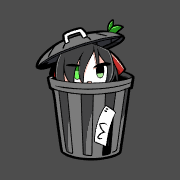
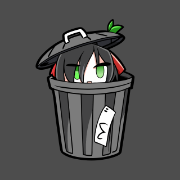
Rebranding second attempt

diff --git a/templates/index.html b/templates/index.html
@@ -12,7 +12,7 @@
     <meta property="og:title" content="Bin-chan | A Forgetful Text Bin">
     <meta property="og:description"
         content="A bin share like Pastebin, but it forgets! Share text with custom expiry options">
-    <meta property="og:image" content="{{ url_for('static', filename='images/logo.png') }}">
+    <meta property="og:image" content="{{ url_for('static', filename='images/og_logo.png') }}">
     <meta property="og:url" content="{{ url_for('index', _external=True) }}">
     <meta property="og:type" content="website">
     <!-- Twitter Card meta tags -->
@@ -20,7 +20,7 @@
     <meta name="twitter:title" content="Bin-chan | A Forgetful Text Bin">
     <meta name="twitter:description"
         content="A bin share like Pastebin, but it forgets! Share text with custom expiry options">
-    <meta name="twitter:image" content="{{ url_for('static', filename='images/logo.png') }}">
+    <meta name="twitter:image" content="{{ url_for('static', filename='images/og_logo.png') }}">
     <!-- Google Verification -->
     <meta name="google-site-verification" content="e6uZRl4dzIQV8N8ylkx9dU7eO215TgM21Ckp5rwMeVs">
     <!-- Theme Color -->
@@ -50,7 +50,7 @@
     <body>
         <main class="content">
             <div class="container">
-                <img src="{{ url_for('static', filename='images/logo.svg') }}" alt="Logo" class="logo">
+                <img src="{{ url_for('static', filename='images/logo.png') }}" alt="Logo" class="logo">
                 <form id="textForm">
                     <textarea name="text" placeholder="Enter your text..." required></textarea><br>
                     <div id="charCount">0/6000</div>

diff --git a/templates/password_prompt.html b/templates/password_prompt.html
@@ -11,14 +11,14 @@
     <!-- Open Graph meta tags -->
     <meta property="og:title" content="Bin-chan | A Forgetful Text Bin">
     <meta property="og:description" content="Someone shared a locked bin. Do you know the password?">
-    <meta property="og:image" content="{{ url_for('static', filename='images/logo.png') }}">
+    <meta property="og:image" content="{{ url_for('static', filename='images/og_logo.png') }}">
     <meta property="og:url" content="{{ url_for('index', _external=True) }}">
     <meta property="og:type" content="website">
     <!-- Twitter Card meta tags -->
     <meta name="twitter:card" content="summary_large_image">
     <meta name="twitter:title" content="Bin-chan | A Forgetful Text Bin">
     <meta name="twitter:description" content="Someone shared a locked bin. Do you know the password?">
-    <meta name="twitter:image" content="{{ url_for('static', filename='images/logo.png') }}">
+    <meta name="twitter:image" content="{{ url_for('static', filename='images/og_logo.png') }}">
     <!-- Google Verification -->
     <meta name="google-site-verification" content="e6uZRl4dzIQV8N8ylkx9dU7eO215TgM21Ckp5rwMeVs">
     <!-- Theme Color -->
@@ -46,7 +46,7 @@
 <body>
     <main class="content">
         <div class="container">
-            <img src="{{ url_for('static', filename='images/logo.svg') }}" alt="Logo" class="logo">
+            <img src="{{ url_for('static', filename='images/logo.png') }}" alt="Logo" class="logo">
             <form method="POST">
                 <input type="password" name="password" placeholder="Enter password" required>
                 <div class="buttons">

diff --git a/templates/shared_text.html b/templates/shared_text.html
@@ -11,14 +11,14 @@
     <!-- Open Graph meta tags -->
     <meta property="og:title" content="Bin-chan | A Forgetful Text Bin">
     <meta property="og:description" content="Someone shared a bin with you">
-    <meta property="og:image" content="{{ url_for('static', filename='images/logo.png') }}">
+    <meta property="og:image" content="{{ url_for('static', filename='images/og_logo.png') }}">
     <meta property="og:url" content="{{ url_for('index', _external=True) }}">
     <meta property="og:type" content="website">
     <!-- Twitter Card meta tags -->
     <meta name="twitter:card" content="summary_large_image">
     <meta name="twitter:title" content="Bin-chan | A Forgetful Text Bin">
     <meta name="twitter:description" content="Someone shared a bin with you">
-    <meta name="twitter:image" content="{{ url_for('static', filename='images/logo.png') }}">
+    <meta name="twitter:image" content="{{ url_for('static', filename='images/og_logo.png') }}">
     <!-- Google Verification -->
     <meta name="google-site-verification" content="e6uZRl4dzIQV8N8ylkx9dU7eO215TgM21Ckp5rwMeVs">
     <!-- Theme Color -->
@@ -46,7 +46,7 @@
 <body>
     <main class="content">
         <div class="container">
-            <img src="{{ url_for('static', filename='images/logo.svg') }}" alt="Logo" class="logo">
+            <img src="{{ url_for('static', filename='images/logo.png') }}" alt="Logo" class="logo">
             <div class="text-box" id="text-to-copy">{{ text | e}}</div>
             <div class="buttons">
                 <button class="copy-link-button" onclick="copyLink()">Link</button>

diff --git a/templates/404.html b/templates/404.html
@@ -11,14 +11,14 @@
     <!-- Open Graph meta tags -->
     <meta property="og:title" content="Bin-chan | A Forgetful Text Bin">
     <meta property="og:description" content="Sorry, the bin you are looking for does not exist or has expired.">
-    <meta property="og:image" content="{{ url_for('static', filename='images/logo.png') }}">
+    <meta property="og:image" content="{{ url_for('static', filename='images/og_logo.png') }}">
     <meta property="og:url" content="{{ url_for('index', _external=True) }}">
     <meta property="og:type" content="website">
     <!-- Twitter Card meta tags -->
     <meta name="twitter:card" content="summary_large_image">
     <meta name="twitter:title" content="Bin-chan | A Forgetful Text Bin">
     <meta name="twitter:description" content="Sorry, the bin you are looking for does not exist or has expired.">
-    <meta name="twitter:image" content="{{ url_for('static', filename='images/logo.png') }}">
+    <meta name="twitter:image" content="{{ url_for('static', filename='images/og_logo.png') }}">
     <!-- Google Verification -->
     <meta name="google-site-verification" content="e6uZRl4dzIQV8N8ylkx9dU7eO215TgM21Ckp5rwMeVs">
     <!-- Theme Color -->
